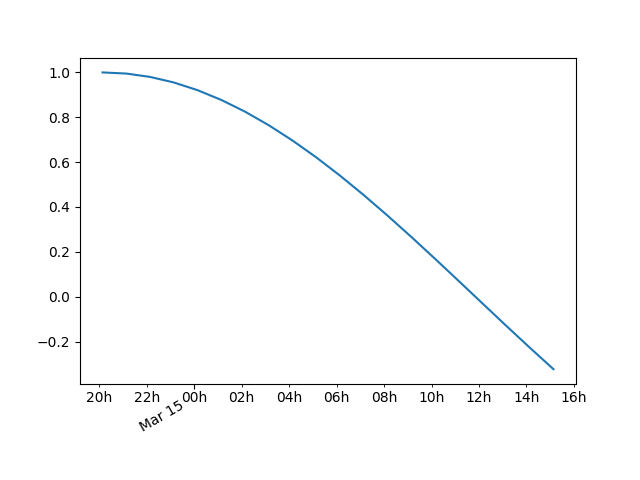
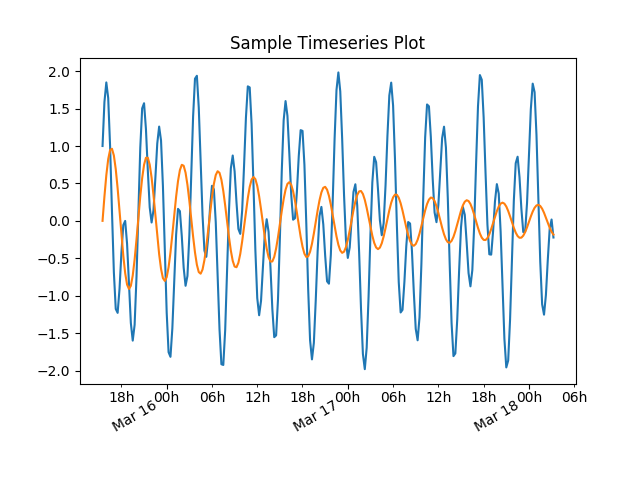
more interesting sample plot

diff --git a/examples/minimal.py b/examples/minimal.py
@@ -6,19 +6,23 @@ from autoformat import autoformat
 def get_test_data():
     times = []
     data = []
+    data2 = []
     start_time = datetime.datetime.utcnow()
-    for x in range(0,20):
-        next_time = start_time + datetime.timedelta(hours=x)
+    for x in range(0,240):
+        next_time = start_time + datetime.timedelta(hours=x*0.25)
         times.append(next_time)
-        data.append(math.cos(x / 10.0))
-    return times, data
+        data.append(math.cos(x / 4.0) + math.sin(x / 1.5))
+        data2.append(math.exp(-x / 150.0) * math.sin(x / 3.0))
+    return times, data, data2
 
 def plot(filename):
-    times, data = get_test_data()
+    times, data, data2 = get_test_data()
     start = times[0]
     end = times[len(times)-1]
     autoformat.scale(start, end)
+    plt.title("Sample Timeseries Plot")
     plt.plot(times, data)
+    plt.plot(times, data2)
     plt.savefig(filename)
     plt.close()
 
